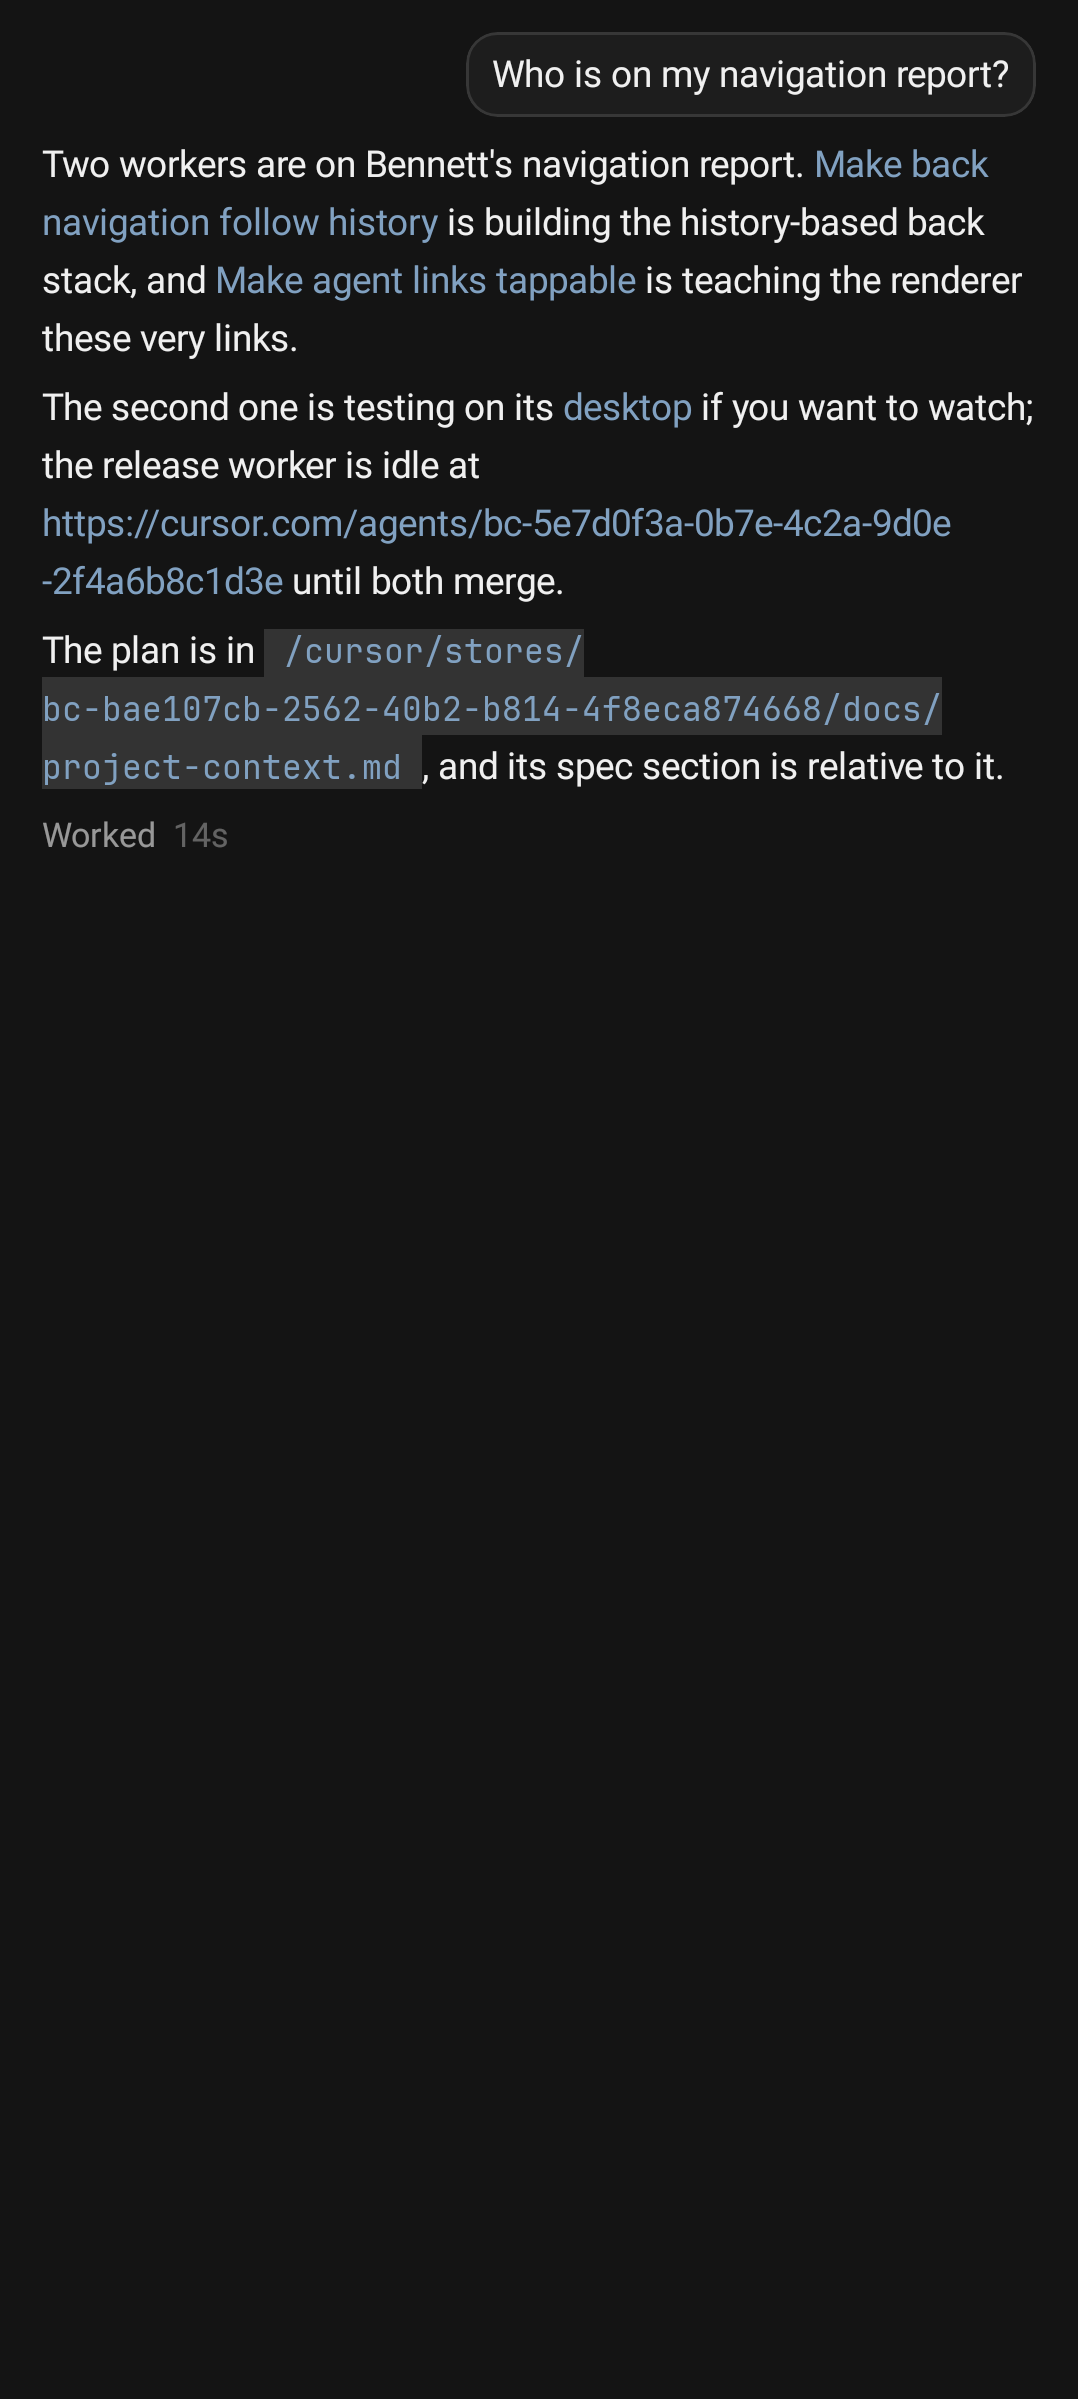
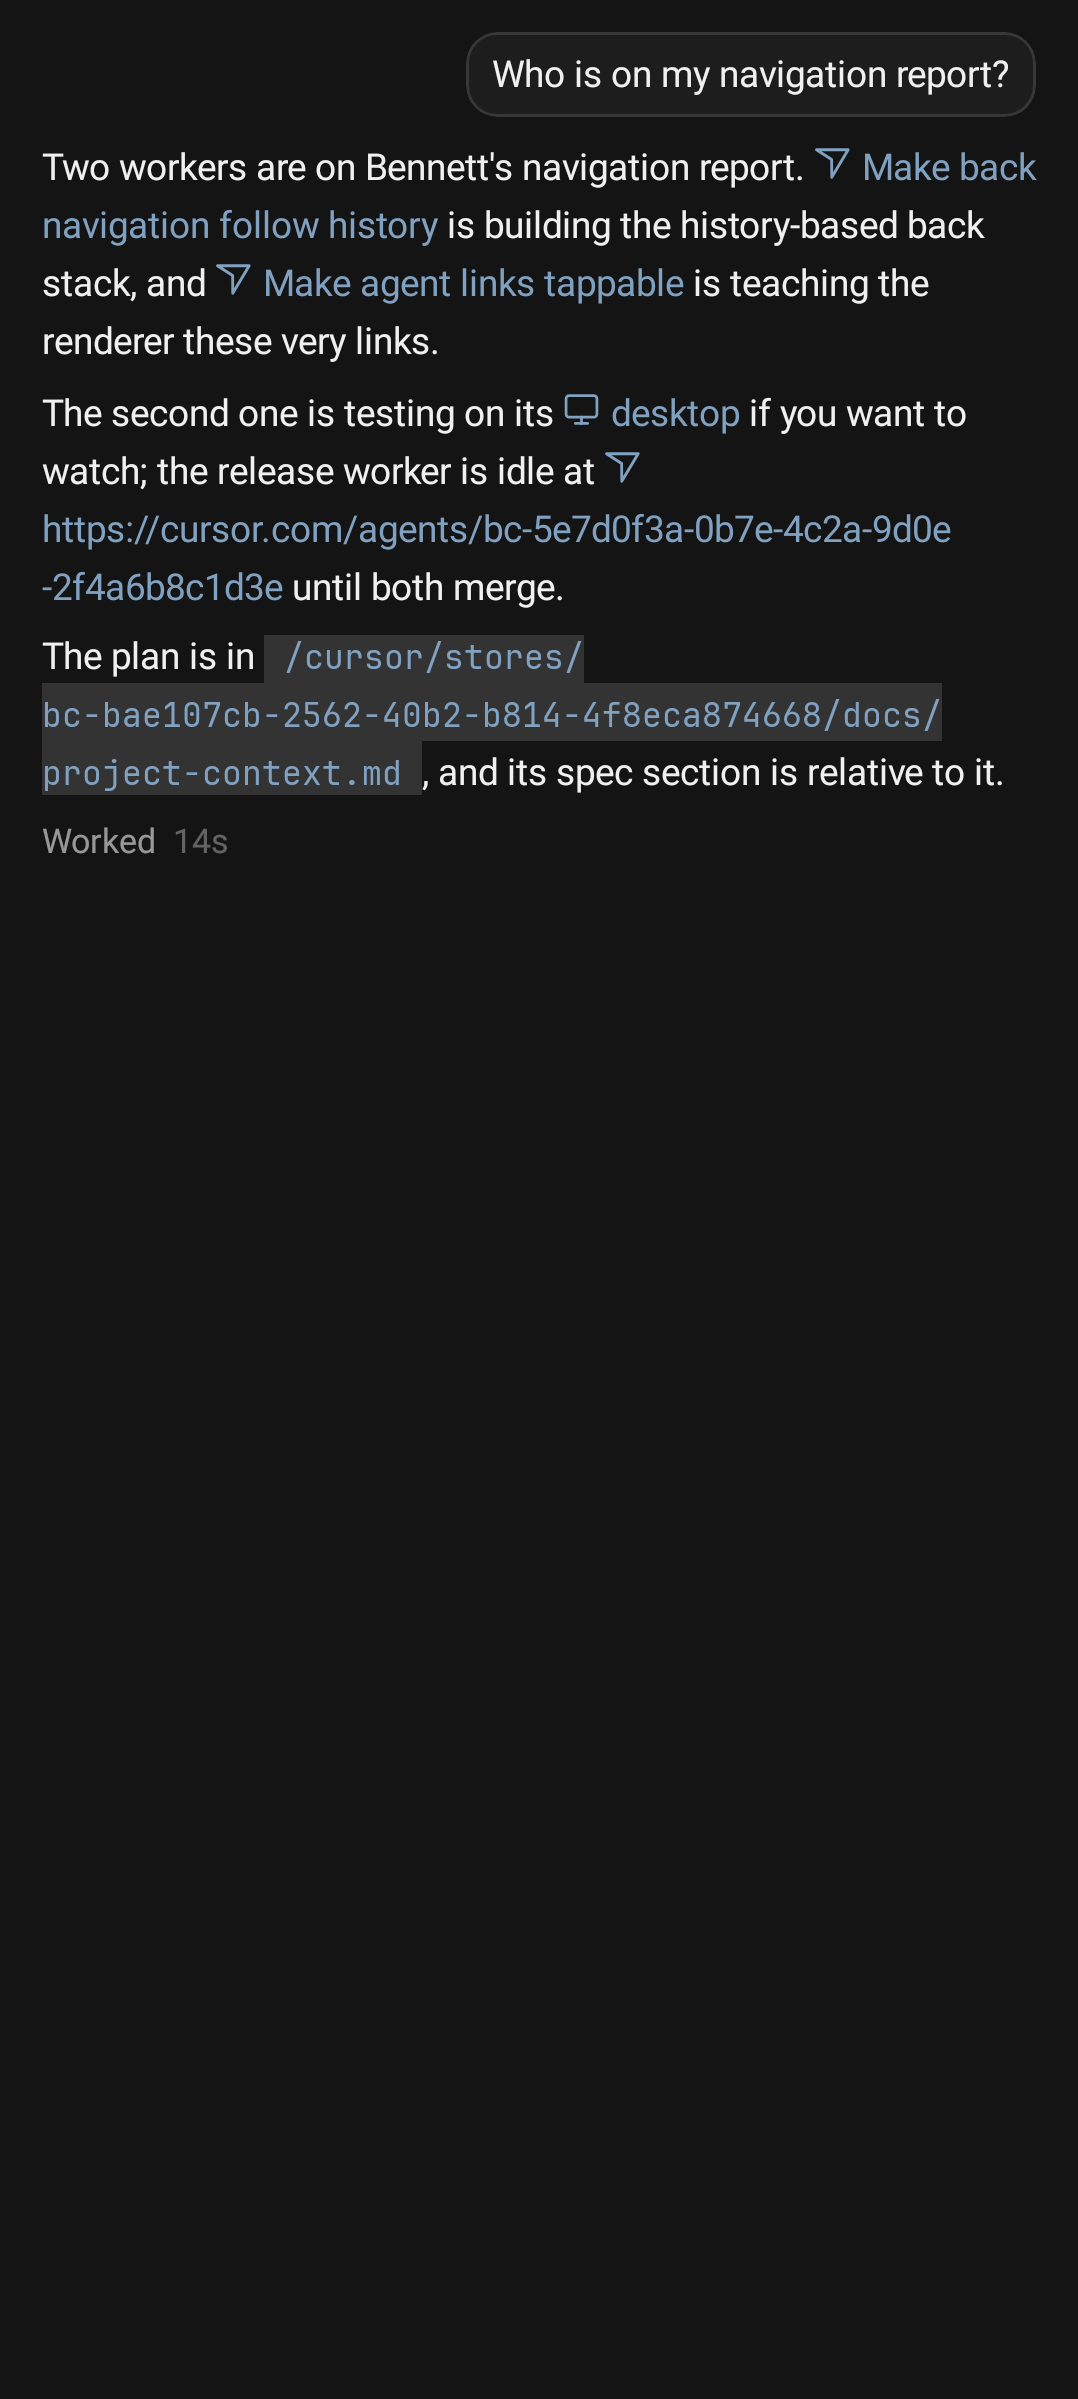
Add agent link status goldens and demo frame capture

Changed region(s): [[0.0306, 0.0617, 0.949, 0.3702]]

diff --git a/app/src/test/java/com/cursorforandroid/screenshots/AgentLinkStatusScreenshotTest.kt b/app/src/test/java/com/cursorforandroid/screenshots/AgentLinkStatusScreenshotTest.kt
@@ -1,0 +1,192 @@
+package com.cursorforandroid.screenshots
+
+import android.content.Context
+import androidx.activity.ComponentActivity
+import androidx.compose.material3.ExperimentalMaterial3Api
+import androidx.compose.material3.LocalRippleConfiguration
+import androidx.compose.runtime.CompositionLocalProvider
+import androidx.compose.ui.test.hasTestTag
+import androidx.compose.ui.test.hasText
+import androidx.compose.ui.test.junit4.createAndroidComposeRule
+import androidx.test.core.app.ApplicationProvider
+import androidx.test.ext.junit.runners.AndroidJUnit4
+import com.cursorforandroid.AppGraph
+import com.cursorforandroid.data.FakeCursorApi
+import com.cursorforandroid.data.FakeRunStreamer
+import com.cursorforandroid.data.local.SecureKeyStore
+import com.cursorforandroid.data.repo.CursorBackend
+import com.cursorforandroid.ui.components.AgentLinkIcon
+import com.cursorforandroid.ui.conversation.ConversationScreen
+import com.cursorforandroid.ui.theme.CursorTheme
+import com.cursorforandroid.ui.theme.ThemeMode
+import com.cursorforandroid.util.AppClock
+import com.github.takahirom.roborazzi.RoborazziOptions
+import com.github.takahirom.roborazzi.captureScreenRoboImage
+import com.google.common.truth.Truth.assertThat
+import kotlinx.coroutines.runBlocking
+import org.junit.After
+import org.junit.Assume.assumeTrue
+import org.junit.Before
+import org.junit.Rule
+import org.junit.Test
+import org.junit.runner.RunWith
+import org.robolectric.annotation.Config
+import org.robolectric.annotation.GraphicsMode
+import java.io.File
+import java.time.Instant
+import java.util.Locale
+import java.util.TimeZone
+
+/**
+ * Links to agents in a reply, each opening with its status icon (see [AgentLinkIcon]): the dot grid on the four lanes
+ * still working, the arrowhead on the two that have finished. The chat is the one Bennett reported (a coordinator
+ * listing the lanes it runs), served through the demo seat of the graph with every lane a chat of the list, so the
+ * icons read the list the sidebar reads. Dark and light; the grid is caught on a fixed step of its animation.
+ *
+ * [demoFrames] is not a golden: with `AGENT_LINK_DEMO_FRAMES` set to a directory it writes the frames of the walkthrough
+ * video there, two lanes finishing on the server while the chat is open and their icons turning over on the refresh.
+ */
+@OptIn(ExperimentalMaterial3Api::class)
+@RunWith(AndroidJUnit4::class)
+@GraphicsMode(GraphicsMode.Mode.NATIVE)
+@Config(sdk = [35], qualifiers = "w411dp-h914dp-night-420dpi")
+class AgentLinkStatusScreenshotTest {
+
+    @get:Rule
+    val compose = createAndroidComposeRule<ComponentActivity>()
+
+    private val outDir = File(System.getProperty("user.dir"), "../screenshots").normalize()
+    private val api = FakeCursorApi()
+    private val streamer = FakeRunStreamer()
+    private lateinit var graph: AppGraph
+
+    @Before
+    fun setUp() {
+        TimeZone.setDefault(TimeZone.getTimeZone("UTC"))
+        Locale.setDefault(Locale.US)
+        AppClock.nowMillis = { Instant.parse(STARTED_AT).toEpochMilli() + 2 * 3_600_000L }
+        val context = ApplicationProvider.getApplicationContext<Context>()
+        graph = AppGraph(
+            context,
+            SecureKeyStore(context) { context.getSharedPreferences("stand-in-secure", Context.MODE_PRIVATE) },
+            appVersion = SCREENSHOT_APP_VERSION,
+            demo = CursorBackend(api, streamer, isDemo = true),
+        )
+    }
+
+    @After
+    fun restoreClock() {
+        AppClock.nowMillis = System::currentTimeMillis
+    }
+
+    private fun seed() = runBlocking {
+        LANES.forEach { lane ->
+            if (lane.running) api.addRunningAgent(lane.id, lane.name, "run-${lane.id}", createdAt = STARTED_AT)
+            else api.addIdleAgent(lane.id, lane.name, "run-${lane.id}", createdAt = STARTED_AT)
+        }
+        api.addFinishedAgent(COORDINATOR, "Revenue Scaling Pipeline", Triple("run-coordinator", PROMPT, REPLY), firstRunAt = STARTED_AT)
+        graph.session.enterDemo()
+        graph.agents.refresh()
+    }
+
+    private fun finishOnServer(id: String) {
+        val runId = "run-$id"
+        api.runs[runId] = api.runs.getValue(runId).copy(status = "FINISHED", result = "Done.", durationMs = 60_000, updatedAt = STARTED_AT)
+        api.agents[id] = api.agents.getValue(id).copy(status = "IDLE")
+        api.v0[id] = api.v0.getValue(id).copy(status = "FINISHED")
+    }
+
+    private fun show(mode: ThemeMode) {
+        seed()
+        compose.setContent {
+            CursorTheme(mode = mode) {
+                // Ripples on API 31+ animate a noise "sparkle", so a frame caught mid-fade is never reproducible.
+                CompositionLocalProvider(LocalRippleConfiguration provides null) {
+                    ConversationScreen(graph, COORDINATOR, onBack = {})
+                }
+            }
+        }
+        compose.waitUntil(30_000) { compose.onAllNodes(hasText("Push AI receptionist", substring = true), useUnmergedTree = true).fetchSemanticsNodes().isNotEmpty() }
+        compose.waitForIdle()
+    }
+
+    private fun count(tag: String) = compose.onAllNodes(hasTestTag(tag), useUnmergedTree = true).fetchSemanticsNodes().size
+
+    private fun frame(mode: ThemeMode, name: String) {
+        show(mode)
+        assertThat(count(AgentLinkIcon.TAG_RUNNING)).isEqualTo(4)
+        assertThat(count(AgentLinkIcon.TAG_IDLE)).isEqualTo(2)
+        compose.mainClock.autoAdvance = false
+        compose.mainClock.advanceTimeBy(GRID_STEP_MILLIS)
+        captureScreenRoboImage(File(outDir, "$name.png").path, RoborazziOptions())
+    }
+
+    @Test
+    fun agentLinkStatusDark() = frame(ThemeMode.Dark, "640_agent_link_status_dark")
+
+    @Test
+    fun agentLinkStatusLight() = frame(ThemeMode.Light, "641_agent_link_status_light")
+
+    @Test
+    fun demoFrames() {
+        val dir = System.getenv("AGENT_LINK_DEMO_FRAMES")
+        assumeTrue(dir != null)
+        val mode = if (System.getenv("AGENT_LINK_DEMO_THEME") == "light") ThemeMode.Light else ThemeMode.Dark
+        val out = File(dir!!).apply { mkdirs() }
+        show(mode)
+        compose.mainClock.autoAdvance = false
+        var index = 0
+        fun roll(frames: Int) = repeat(frames) {
+            compose.mainClock.advanceTimeBy(FRAME_MILLIS)
+            captureScreenRoboImage(File(out, "f%04d.png".format(index++)).path, RoborazziOptions())
+        }
+        fun finish(id: String) {
+            finishOnServer(id)
+            runBlocking { graph.agents.refresh() }
+        }
+        roll(45)
+        finish(LANES[1].id)
+        roll(40)
+        assertThat(count(AgentLinkIcon.TAG_RUNNING)).isEqualTo(3)
+        finish(LANES[2].id)
+        roll(40)
+        assertThat(count(AgentLinkIcon.TAG_RUNNING)).isEqualTo(2)
+        finish(LANES[0].id)
+        roll(50)
+        assertThat(count(AgentLinkIcon.TAG_RUNNING)).isEqualTo(1)
+    }
+
+    private data class Lane(val id: String, val name: String, val running: Boolean)
+
+    private companion object {
+        const val STARTED_AT = "2026-09-25T09:00:00.000Z"
+        const val COORDINATOR = "bc-7e0c3f1a-2b4d-4c6e-8f10-1a2b3c4d5e6f"
+        /** An odd step of the grid's 175 ms frames, so the capture is one pattern and never a boundary between two. */
+        const val GRID_STEP_MILLIS = 612L
+        const val FRAME_MILLIS = 40L
+
+        val LANES = listOf(
+            Lane("bc-11a1c0de-0000-4000-8000-000000000001", "Push AI receptionist to scale", running = true),
+            Lane("bc-11a1c0de-0000-4000-8000-000000000002", "Build cold-email fleet at scale", running = true),
+            Lane("bc-11a1c0de-0000-4000-8000-000000000003", "Scale agency lane with full resources", running = true),
+            Lane("bc-11a1c0de-0000-4000-8000-000000000004", "Scale YouTube channels with full resources", running = false),
+            Lane("bc-11a1c0de-0000-4000-8000-000000000005", "Scale TikTok and Pinterest fleets", running = true),
+            Lane("bc-11a1c0de-0000-4000-8000-000000000006", "Scale dropship and merch lanes", running = false),
+        )
+
+        const val PROMPT = "Assume full resources on every lane. Who owns what, and what does each one still need from me?"
+
+        val REPLY = """
+            What's running now, one owner per lane, all assuming full resources. Each will name what still limits us once access isn't the excuse, work around it, and hand you one exact list of what it needs:
+
+            - [Push AI receptionist to scale](${LANES[0].id}): his whole playbook, with the AI sales agent on inbound calls and a ${'$'}497 tier for high-ticket trades next to the ${'$'}99 self-serve plan.
+            - [Build cold-email fleet at scale](${LANES[1].id}): the shared engine for every business lane. That's inbox and domain rotation, warm-up, auto-pause on complaints, reply routing, and national prospect lists.
+            - [Scale agency lane with full resources](${LANES[2].id}): the render agency plus its upsells, closing without calls.
+            - [Scale YouTube channels with full resources](${LANES[3].id}): bodycam long-form, sister channels and the Shorts channels at 30 videos a day.
+            - [Scale TikTok and Pinterest fleets](${LANES[4].id}): dozens of accounts, product videos and the software funnel.
+            - [Scale dropship and merch lanes](${LANES[5].id}): the live store plus merch at fleet scale.
+
+            When they land, I'll roll it all into the game plan as a full-resources scale case, lane by lane, with the numbers.
+        """.trimIndent()
+    }
+}
